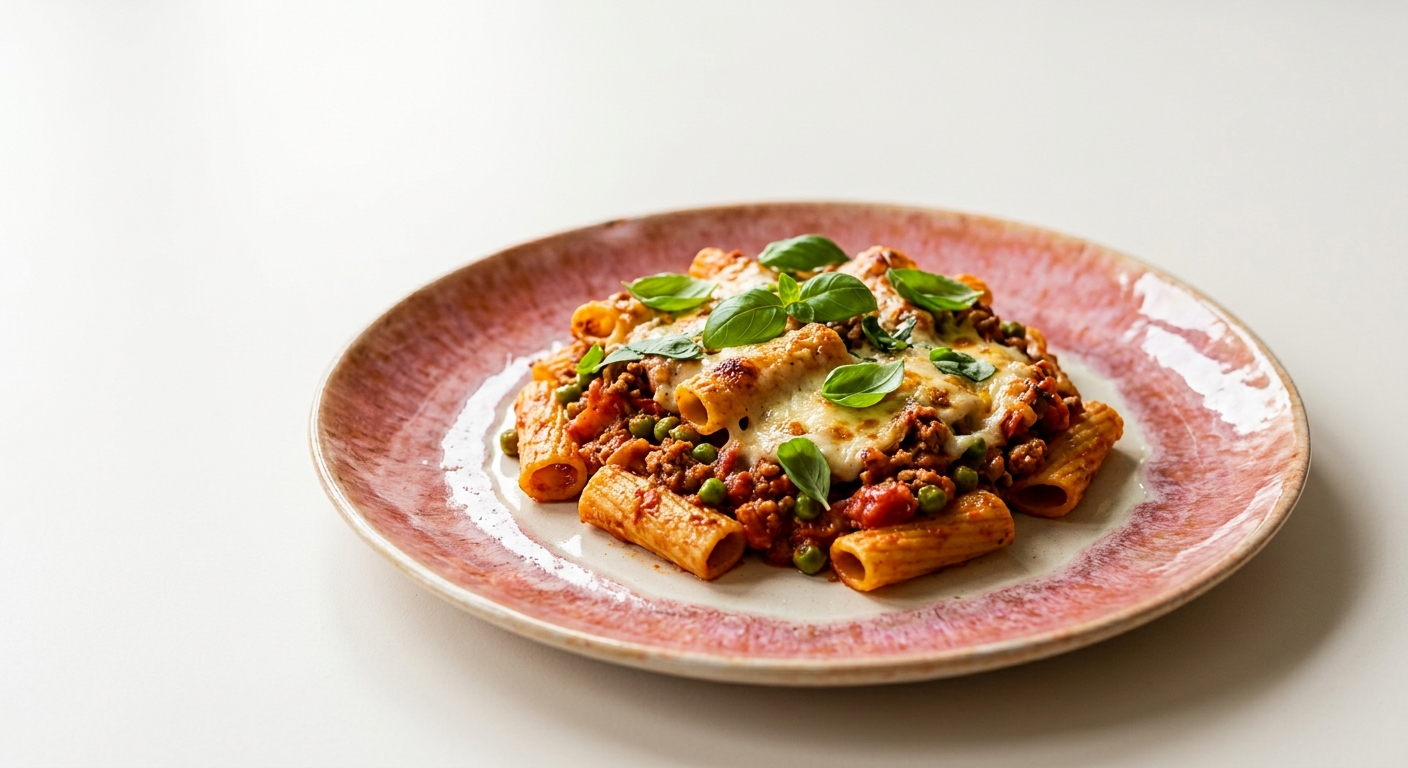
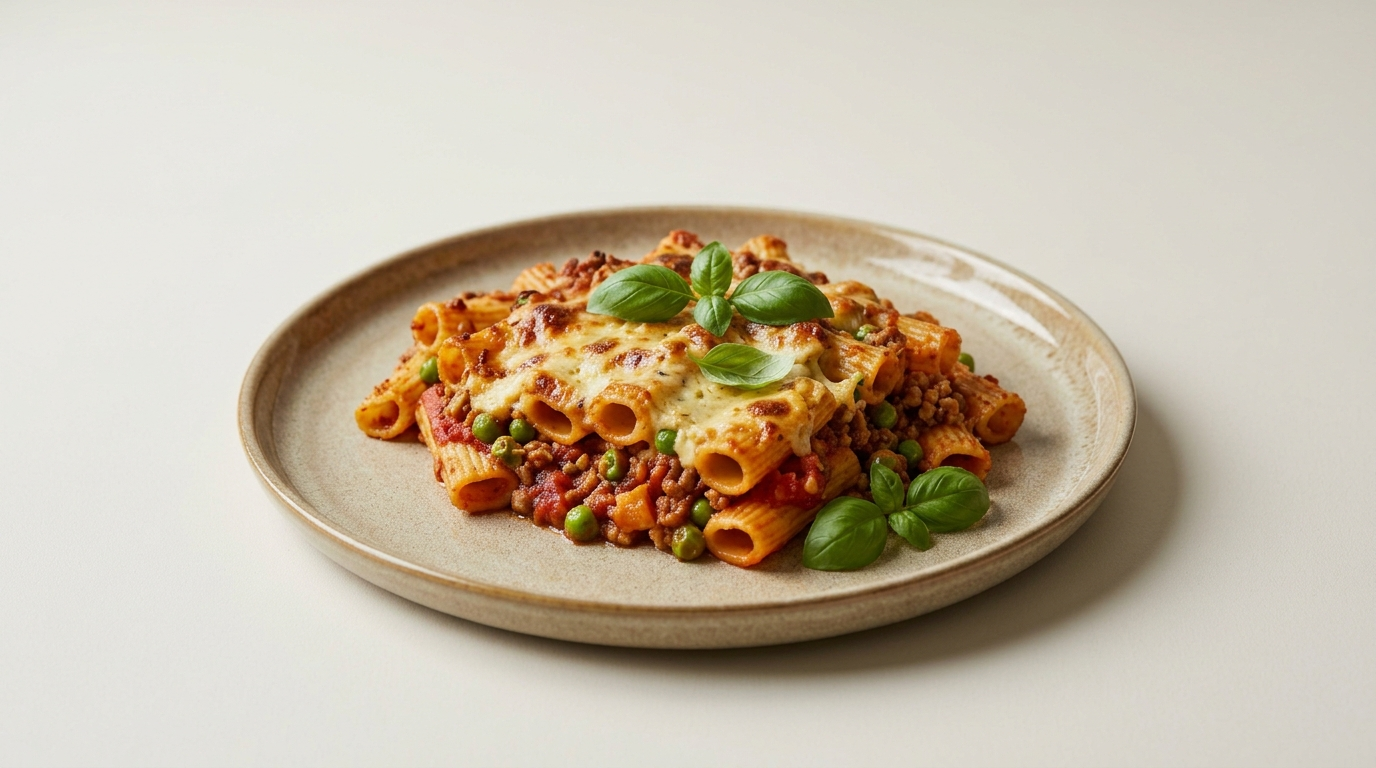
Demo-Platzhalter-Rezepte entfernen, echte Rezeptfotos erneuern
Die 9 ursprünglichen Beispielrezepte aus dem Grundgerüst raus — nur
noch die drei echten Rezepte von zuckerjagdwurst.com bleiben. Dazu
neue, überarbeitete Fotos für alle drei (zentrierter Teller, weniger
aggressiv zugeschnitten dank kleinerem Teller-zu-Bild-Verhältnis).

diff --git a/src/data/recipes.ts b/src/data/recipes.ts
@@ -25,220 +25,6 @@ export const RECIPE_CATEGORIES = [
 
 export const recipes: Recipe[] = [
   {
-    id: 'dal',
-    title: 'Rote-Linsen-Dal',
-    categories: ['Indisch'],
-    minutes: 30,
-    tint: '#E8C79A',
-    description:
-      'Cremiges Dal mit Kokosmilch, Ingwer und geröstetem Kreuzkümmel. Wird beim Stehen nur besser.',
-    ingredients: [
-      { name: 'Rote Linsen', amount: 80, unit: 'g', category: T },
-      { name: 'Kokosmilch', amount: 100, unit: 'ml', category: S },
-      { name: 'Zwiebel', amount: 0.5, unit: 'Stk', category: G },
-      { name: 'Ingwer', amount: 8, unit: 'g', category: G },
-      { name: 'Tomaten', amount: 100, unit: 'g', category: G },
-      { name: 'Kurkuma', amount: 0.5, unit: 'TL', category: W },
-      { name: 'Kreuzkümmel', amount: 0.5, unit: 'TL', category: W },
-      { name: 'Koriander frisch', amount: 5, unit: 'g', category: G },
-    ],
-    steps: [
-      'Zwiebel und Ingwer fein würfeln, in Öl glasig dünsten.',
-      'Kreuzkümmel und Kurkuma 30 Sekunden mitrösten, bis es duftet.',
-      'Linsen, Tomaten und Kokosmilch zugeben, mit Wasser auffüllen und 20 Minuten köcheln.',
-      'Mit Salz abschmecken und mit frischem Koriander servieren.',
-    ],
-  },
-  {
-    id: 'ramen',
-    title: 'Erdnuss-Ramen',
-    categories: ['Asiatisch', 'Suppen & Eintopf'],
-    minutes: 25,
-    tint: '#D9A98C',
-    description: 'Tiefe Brühe aus Erdnussmus, Miso und Limette – in 25 Minuten fertig.',
-    ingredients: [
-      { name: 'Ramen-Nudeln', amount: 90, unit: 'g', category: T },
-      { name: 'Erdnussmus', amount: 30, unit: 'g', category: T },
-      { name: 'Misopaste', amount: 15, unit: 'g', category: S },
-      { name: 'Pak Choi', amount: 80, unit: 'g', category: G },
-      { name: 'Frühlingszwiebel', amount: 1, unit: 'Stk', category: G },
-      { name: 'Limette', amount: 0.5, unit: 'Stk', category: G },
-      { name: 'Edamame TK', amount: 60, unit: 'g', category: K },
-      { name: 'Chiliflocken', amount: 0.25, unit: 'TL', category: W },
-    ],
-    steps: [
-      'Erdnussmus und Miso mit heißer Gemüsebrühe glattrühren.',
-      'Edamame und Pak Choi 4 Minuten in der Brühe garen.',
-      'Nudeln separat kochen und in die Schalen verteilen.',
-      'Brühe aufgießen, mit Frühlingszwiebel, Chili und Limette toppen.',
-    ],
-  },
-  {
-    id: 'bowl',
-    title: 'Ofengemüse-Bowl',
-    categories: ['Bowls'],
-    minutes: 40,
-    tint: '#C9B98F',
-    description: 'Geröstetes Wurzelgemüse, Hirse und Tahin-Dressing. Meal-Prep-tauglich.',
-    ingredients: [
-      { name: 'Süßkartoffel', amount: 150, unit: 'g', category: G },
-      { name: 'Rote Beete', amount: 80, unit: 'g', category: G },
-      { name: 'Hirse', amount: 60, unit: 'g', category: T },
-      { name: 'Tahin', amount: 20, unit: 'g', category: T },
-      { name: 'Zitrone', amount: 0.5, unit: 'Stk', category: G },
-      { name: 'Rucola', amount: 30, unit: 'g', category: G },
-      { name: 'Kichererbsen', amount: 80, unit: 'g', category: T },
-      { name: 'Paprikapulver', amount: 0.5, unit: 'TL', category: W },
-    ],
-    steps: [
-      'Gemüse in Spalten schneiden, mit Öl und Paprikapulver mischen.',
-      'Bei 200 °C 30 Minuten rösten, Kichererbsen die letzten 15 Minuten dazu.',
-      'Hirse nach Packung garen. Tahin mit Zitrone und Wasser cremig rühren.',
-      'Alles schichten, Dressing darüber, Rucola obenauf.',
-    ],
-  },
-  {
-    id: 'curry',
-    title: 'Kichererbsen-Curry',
-    categories: ['Indisch'],
-    minutes: 35,
-    tint: '#DBC08B',
-    description:
-      'Sattes Curry mit Spinat und Garam Masala. Funktioniert mit allem, was im Kühlschrank liegt.',
-    ingredients: [
-      { name: 'Kichererbsen', amount: 120, unit: 'g', category: T },
-      { name: 'Kokosmilch', amount: 120, unit: 'ml', category: S },
-      { name: 'Blattspinat TK', amount: 80, unit: 'g', category: K },
-      { name: 'Zwiebel', amount: 0.5, unit: 'Stk', category: G },
-      { name: 'Knoblauch', amount: 1, unit: 'Zehe', category: G },
-      { name: 'Garam Masala', amount: 1, unit: 'TL', category: W },
-      { name: 'Tomatenmark', amount: 15, unit: 'g', category: S },
-      { name: 'Reis', amount: 70, unit: 'g', category: T },
-    ],
-    steps: [
-      'Zwiebel und Knoblauch anbraten, Tomatenmark kurz mitrösten.',
-      'Garam Masala zugeben, mit Kokosmilch ablöschen.',
-      'Kichererbsen 15 Minuten einköcheln, Spinat zum Schluss unterheben.',
-      'Mit Reis servieren, mit Salz und Limette abschmecken.',
-    ],
-  },
-  {
-    id: 'pasta',
-    title: 'Pasta Arrabbiata',
-    categories: ['Italienisch', 'Pasta', 'Schnell'],
-    minutes: 20,
-    tint: '#D08F76',
-    description: 'Scharf, schnell, immer richtig. Fünf Zutaten plus Salz.',
-    ingredients: [
-      { name: 'Spaghetti', amount: 110, unit: 'g', category: T },
-      { name: 'Passierte Tomaten', amount: 200, unit: 'g', category: S },
-      { name: 'Knoblauch', amount: 2, unit: 'Zehe', category: G },
-      { name: 'Chilischote', amount: 0.5, unit: 'Stk', category: G },
-      { name: 'Petersilie', amount: 5, unit: 'g', category: G },
-      { name: 'Olivenöl', amount: 1, unit: 'EL', category: S },
-    ],
-    steps: [
-      'Nudeln in reichlich Salzwasser al dente kochen.',
-      'Knoblauch und Chili in Olivenöl langsam goldgelb ziehen lassen.',
-      'Tomaten zugeben, 10 Minuten offen einkochen.',
-      'Nudeln mit etwas Kochwasser in die Sauce schwenken, Petersilie darüber.',
-    ],
-  },
-  {
-    id: 'banhmi',
-    title: 'Tofu-Bánh-mì',
-    categories: ['Asiatisch', 'Street Food'],
-    minutes: 30,
-    tint: '#C4B27E',
-    description: 'Marinierter Tofu, schnell eingelegte Möhre und viel Koriander im Baguette.',
-    ingredients: [
-      { name: 'Räuchertofu', amount: 100, unit: 'g', category: S },
-      { name: 'Baguette', amount: 0.5, unit: 'Stk', category: T },
-      { name: 'Möhre', amount: 60, unit: 'g', category: G },
-      { name: 'Gurke', amount: 50, unit: 'g', category: G },
-      { name: 'Reisessig', amount: 1, unit: 'EL', category: S },
-      { name: 'Sojasauce', amount: 1, unit: 'EL', category: S },
-      { name: 'Koriander frisch', amount: 5, unit: 'g', category: G },
-      { name: 'Vegane Mayo', amount: 20, unit: 'g', category: S },
-    ],
-    steps: [
-      'Möhre fein hobeln, mit Reisessig, Zucker und Salz 15 Minuten ziehen lassen.',
-      'Tofu in Scheiben mit Sojasauce knusprig braten.',
-      'Baguette aufschneiden, mit Mayo bestreichen.',
-      'Tofu, Gemüse und Koriander einschichten.',
-    ],
-  },
-  {
-    id: 'suppe',
-    title: 'Kürbis-Kokos-Suppe',
-    categories: ['Suppen & Eintopf', 'Schnell'],
-    minutes: 25,
-    tint: '#E0A97A',
-    description: 'Samtig, mit Ingwer und geröstetem Kürbiskernöl.',
-    ingredients: [
-      { name: 'Hokkaido', amount: 250, unit: 'g', category: G },
-      { name: 'Kokosmilch', amount: 80, unit: 'ml', category: S },
-      { name: 'Ingwer', amount: 6, unit: 'g', category: G },
-      { name: 'Zwiebel', amount: 0.5, unit: 'Stk', category: G },
-      { name: 'Gemüsebrühe', amount: 200, unit: 'ml', category: S },
-      { name: 'Kürbiskerne', amount: 10, unit: 'g', category: T },
-      { name: 'Muskat', amount: 0.25, unit: 'TL', category: W },
-    ],
-    steps: [
-      'Kürbis würfeln (Schale bleibt dran), Zwiebel und Ingwer andünsten.',
-      'Alles mit Brühe 15 Minuten weich kochen.',
-      'Kokosmilch zugeben und fein pürieren.',
-      'Mit Muskat abschmecken, mit gerösteten Kernen servieren.',
-    ],
-  },
-  {
-    id: 'falafel',
-    title: 'Falafel-Teller',
-    categories: ['Street Food'],
-    minutes: 45,
-    tint: '#B9AE84',
-    description: 'Ofen-Falafel mit Kräuterkern, dazu Hummus und Tomatensalat.',
-    ingredients: [
-      { name: 'Kichererbsen getrocknet', amount: 90, unit: 'g', category: T },
-      { name: 'Petersilie', amount: 15, unit: 'g', category: G },
-      { name: 'Knoblauch', amount: 1, unit: 'Zehe', category: G },
-      { name: 'Kreuzkümmel', amount: 0.5, unit: 'TL', category: W },
-      { name: 'Hummus', amount: 50, unit: 'g', category: S },
-      { name: 'Tomaten', amount: 80, unit: 'g', category: G },
-      { name: 'Fladenbrot', amount: 0.5, unit: 'Stk', category: T },
-    ],
-    steps: [
-      'Über Nacht eingeweichte Kichererbsen mit Kräutern und Gewürzen grob mixen.',
-      'Bällchen formen, 25 Minuten bei 200 °C backen, einmal wenden.',
-      'Tomaten würfeln, mit Salz und Olivenöl marinieren.',
-      'Mit Hummus und warmem Fladenbrot anrichten.',
-    ],
-  },
-  {
-    id: 'brot',
-    title: 'Schoko-Bananenbrot',
-    categories: ['Backwaren & Dessert'],
-    minutes: 60,
-    tint: '#C79E86',
-    description: 'Sehr saftig, ohne Ei – reife Bananen machen die Arbeit.',
-    ingredients: [
-      { name: 'Bananen reif', amount: 1, unit: 'Stk', category: G },
-      { name: 'Mehl', amount: 60, unit: 'g', category: T },
-      { name: 'Haferflocken', amount: 20, unit: 'g', category: T },
-      { name: 'Zartbitterschokolade', amount: 20, unit: 'g', category: T },
-      { name: 'Pflanzendrink', amount: 30, unit: 'ml', category: S },
-      { name: 'Backpulver', amount: 0.5, unit: 'TL', category: T },
-      { name: 'Zimt', amount: 0.25, unit: 'TL', category: W },
-      { name: 'Rohrzucker', amount: 20, unit: 'g', category: T },
-    ],
-    steps: [
-      'Bananen zerdrücken, mit Pflanzendrink und Zucker verrühren.',
-      'Trockene Zutaten unterheben, Schokolade grob hacken und zugeben.',
-      'In eine Kastenform füllen, 45 Minuten bei 180 °C backen.',
-      'Vollständig auskühlen lassen – dann erst schneiden.',
-    ],
-  },
-  {
     id: 'rigatoni',
     title: 'Vegane Rigatoni al Forno',
     categories: ['Italienisch', 'Pasta'],
